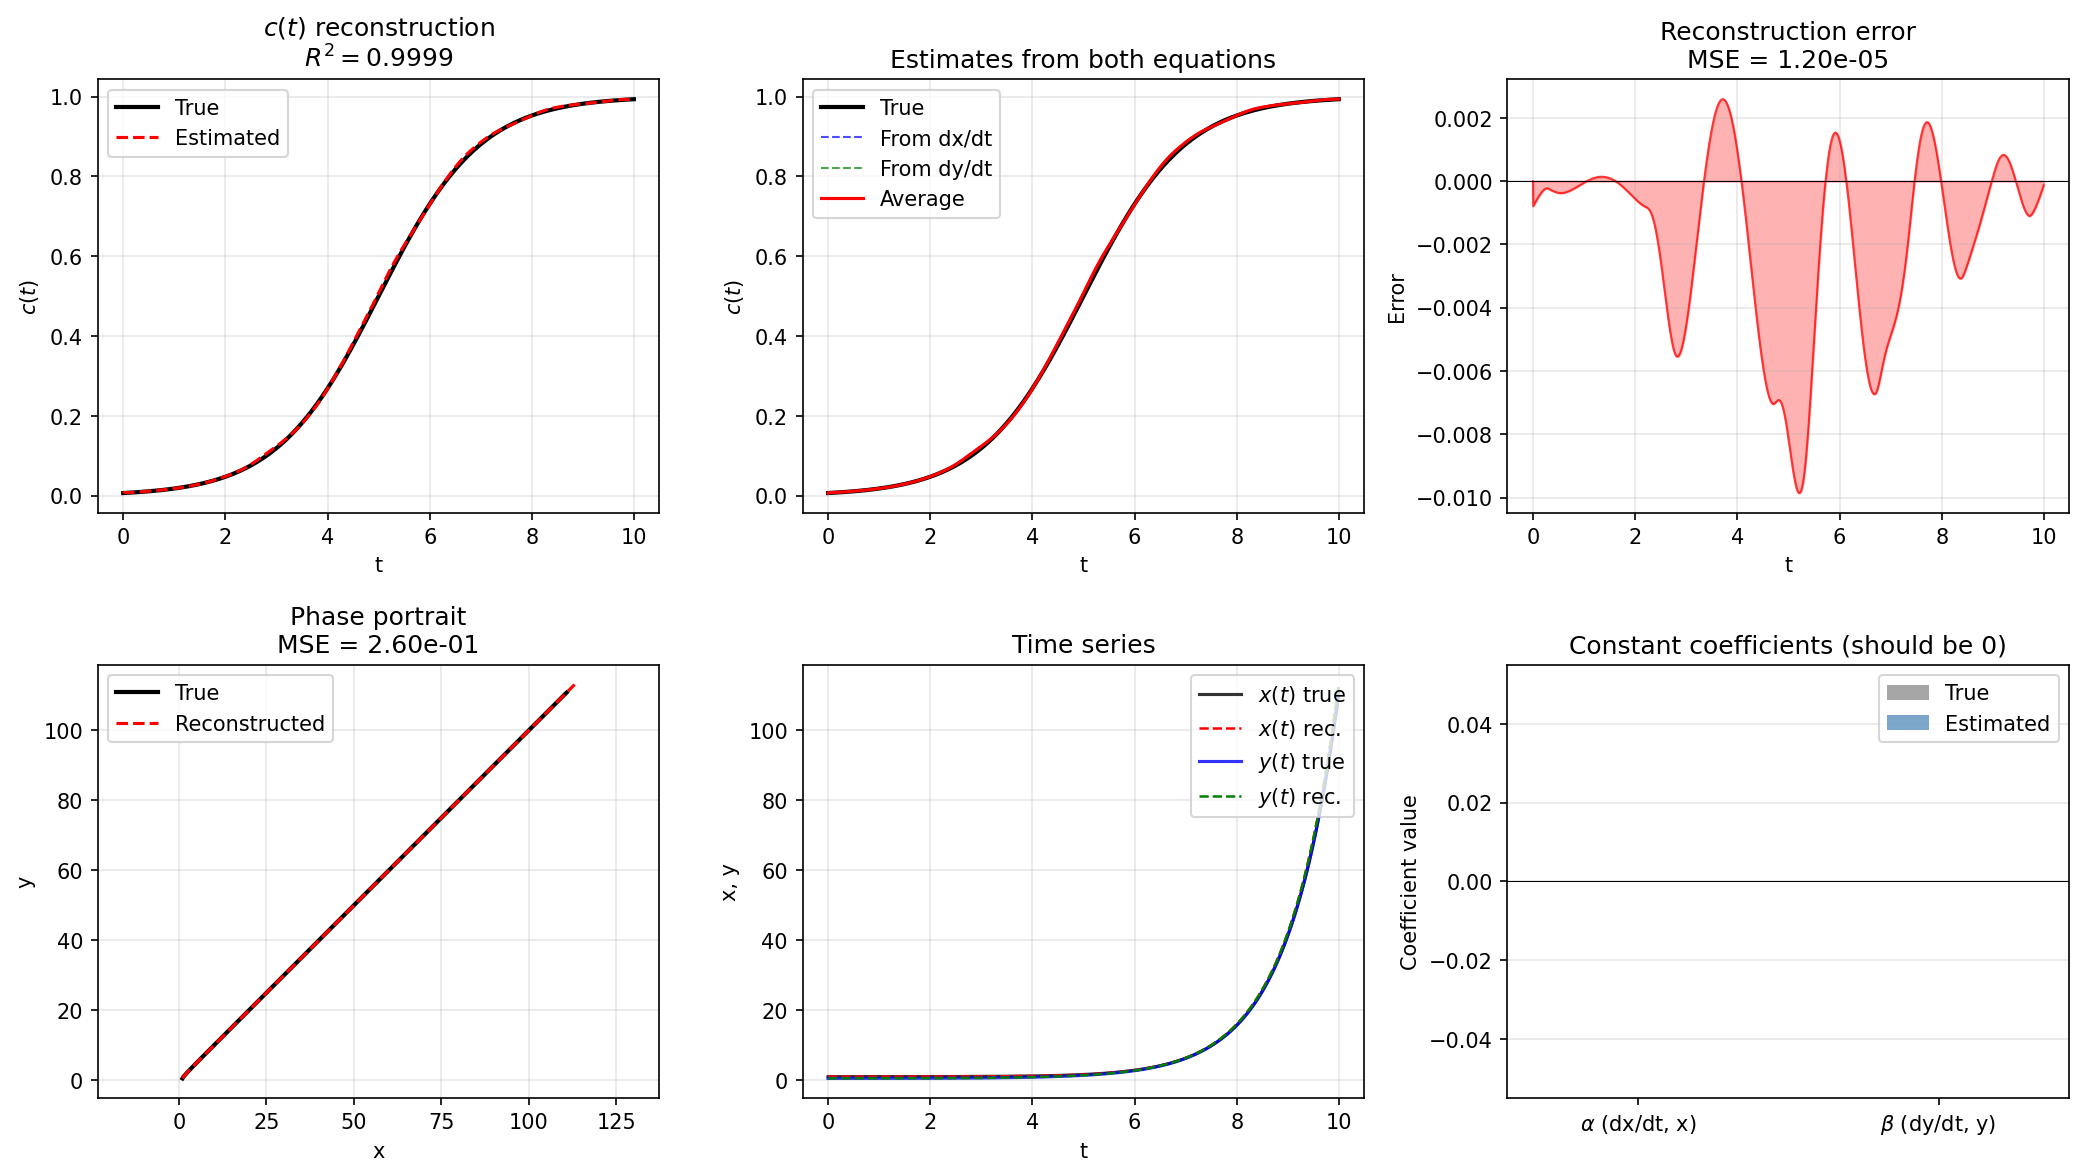
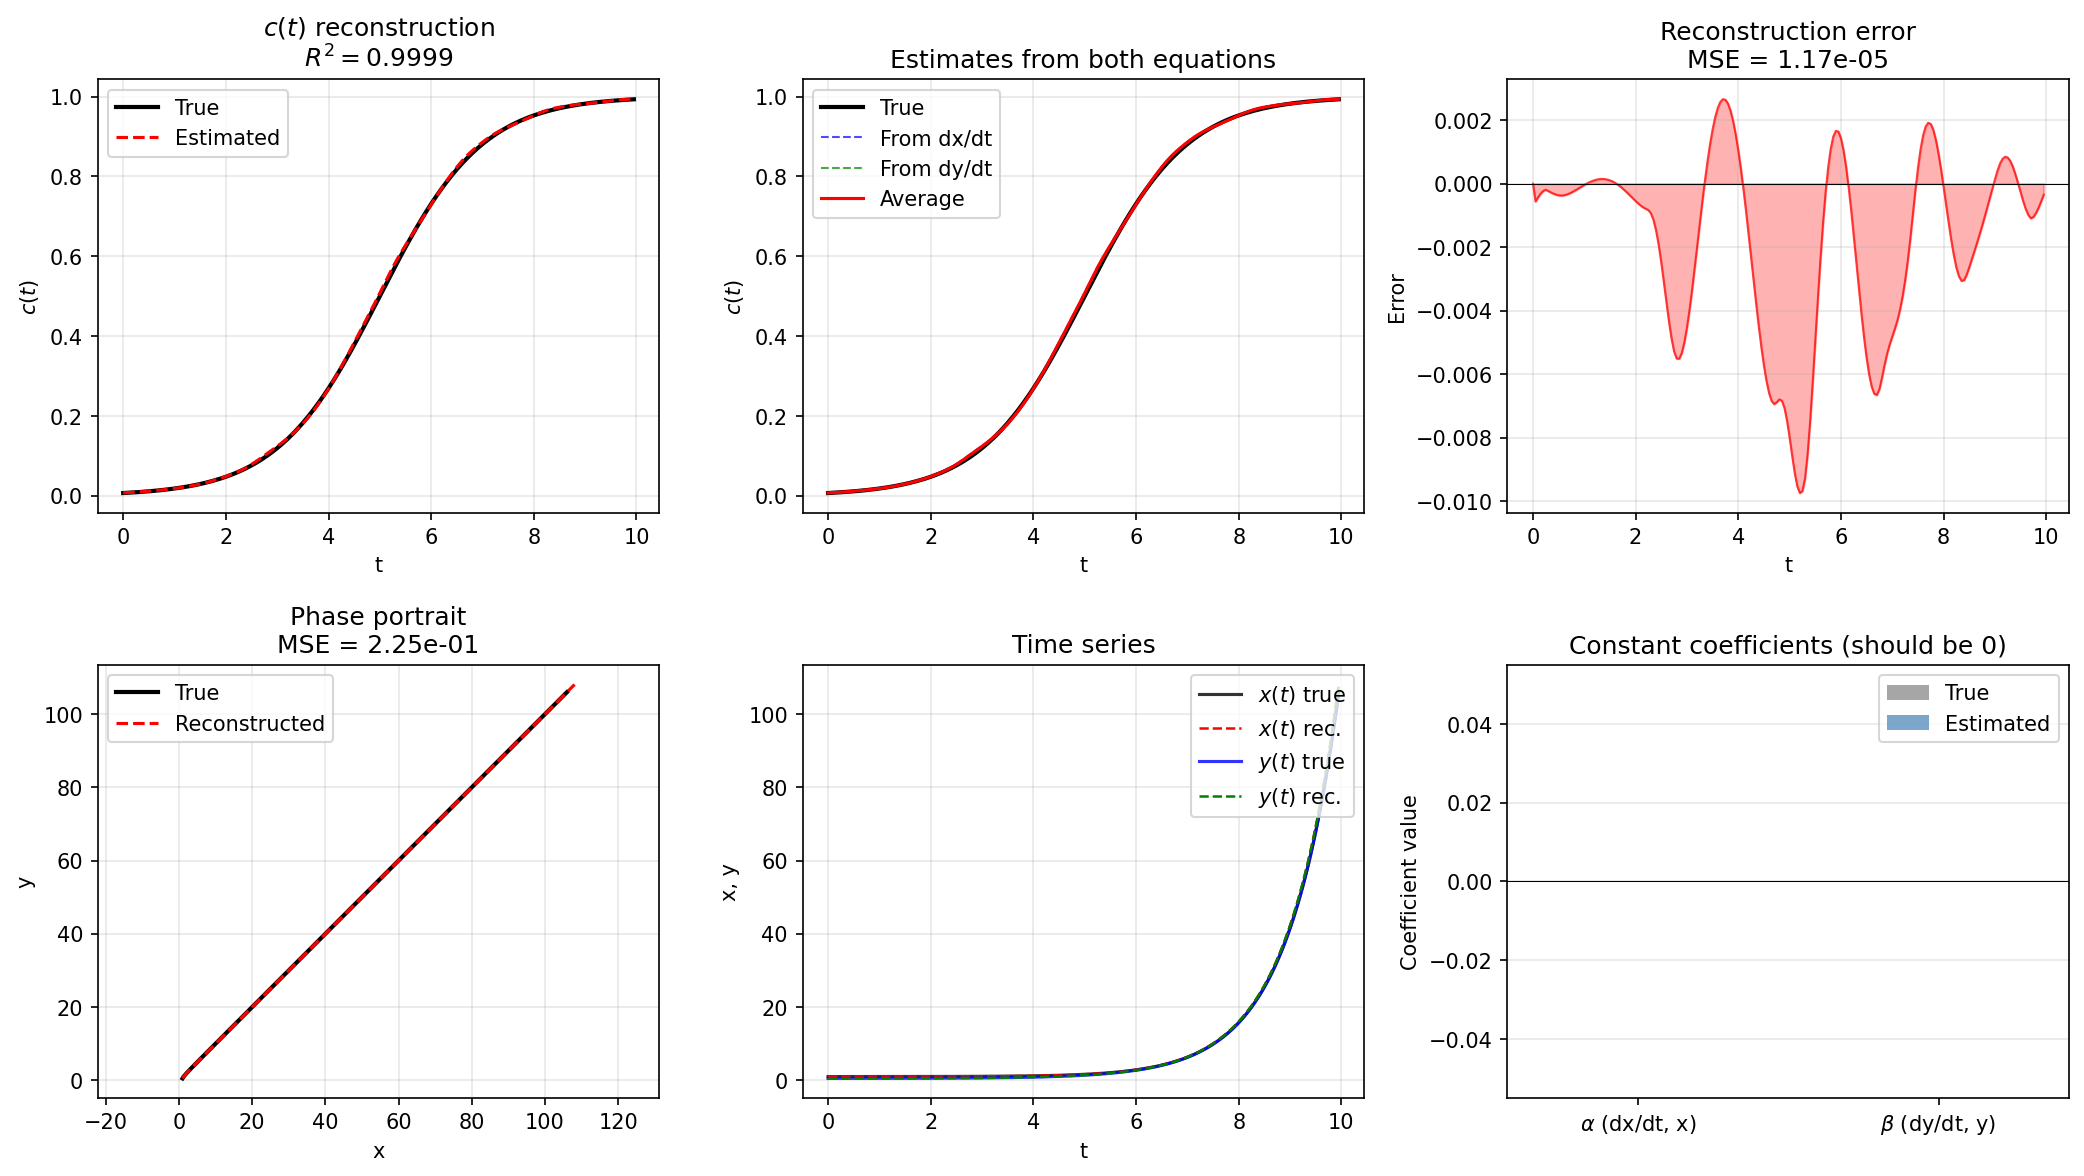
Resulted commit for main

diff --git a/examples/cyclicbeamchecknoise.py b/examples/cyclicbeamchecknoise.py
@@ -137,7 +137,8 @@ def evaluate_noise_level(noise_level, seed=42):
     x_rec = sol_rec.y.T
     
     mse_traj = mean_squared_error(x_clean, x_rec)
-    rmse = np.sqrt(mse_traj)
+    rmse = np.sqrt(mean_squared_error(c_true(t), c_fitted))
+
     
     # Sparsity accuracy
     spurious_indices = [2, 3]

diff --git a/examples/tv_simple_ode.py b/examples/tv_simple_ode.py
@@ -16,7 +16,7 @@ from pysindy.optimizers import STLSQ
 
 case = 1
 
-dt = 0.005
+dt = 0.05
 t = np.arange(0, 10.0, dt)
 
 c_true = lambda t: 1 / (1 + np.exp(-(t - 5)))
